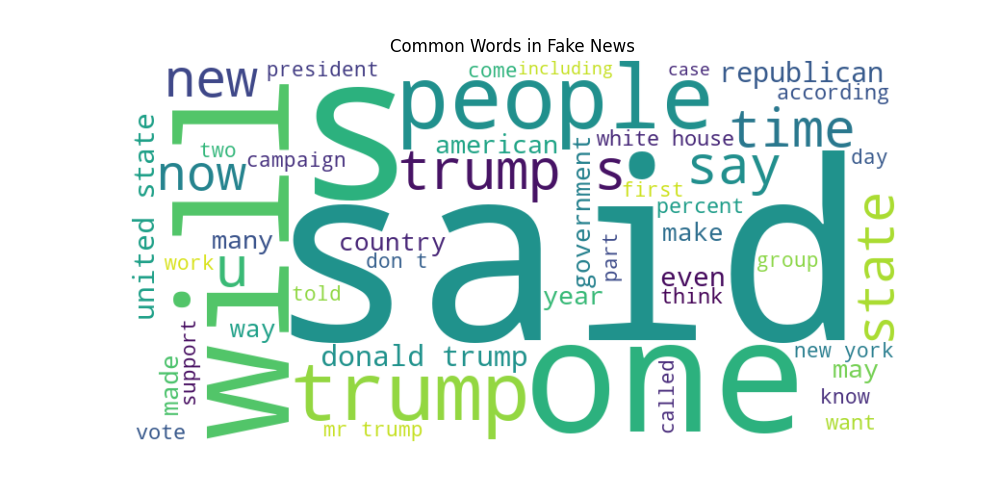
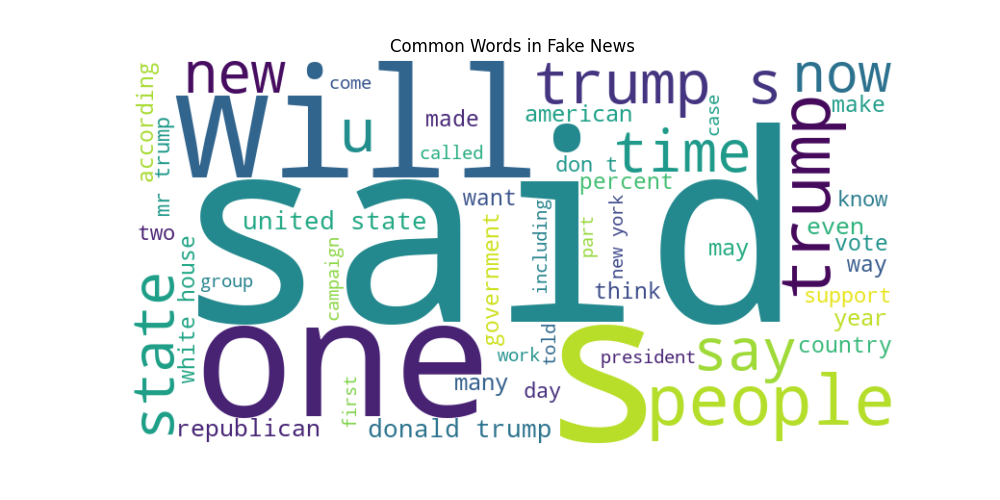
Pipeline stable: Fixed all Memory and NameErrors, baseline accuracy established at 49.18%

diff --git a/main.py b/main.py
@@ -2,6 +2,18 @@ import pandas as pd
 import os
 import re
 import string
+import numpy as np
+import matplotlib.pyplot as plt
+import seaborn as sns
+from wordcloud import WordCloud
+from collections import Counter
+from scipy.sparse import hstack
+from sklearn.model_selection import train_test_split
+from sklearn.linear_model import PassiveAggressiveClassifier
+from sklearn.metrics import accuracy_score
+from sklearn.feature_extraction.text import TfidfVectorizer
+
+# --- STEP 1: DATA LOADING & CLEANING ---
 
 def load_and_merge():
     # 1. Load ISOT (True=1, Fake=0)
@@ -36,114 +48,93 @@ def clean_text(text):
     text = re.sub(r'\w*\d\w*', '', text) 
     return text
 
-# --- STEP 2: RUN THE BOSS (Execution) AT THE VERY BOTTOM ---
+# --- STEP 2: CUSTOM AI SIGNATURE FUNCTION ---
+
+def get_features(text):
+    """Extracts structural patterns that often distinguish AI from humans."""
+    text = str(text).strip()
+    if not text:
+        return [0, 0]
+        
+    sentences = [s for s in text.split('.') if s.strip()]
+    if not sentences:
+        return [0, 0]
+        
+    # Average Sentence Length (AI is often very consistent)
+    avg_sent_len = np.mean([len(s.split()) for s in sentences])
+    # Punctuation Density (AI uses punctuation very predictably)
+    punc_count = sum([1 for char in text if char in '?!,;:']) / (len(text) + 1)
+    
+    return [avg_sent_len, punc_count]
+
+# --- STEP 3: MAIN EXECUTION ---
 
 if __name__ == "__main__":
-    # 1. Run your merge function
+    # 1. Load and Clean
     df = load_and_merge()
-
-    # 2. Clean the text (This takes a few minutes for 117k rows!)
-    print("🧹 Cleaning 117,493 rows of text... please wait.")
+    print("🧹 Cleaning text... please wait.")
     df['text'] = df['text'].apply(clean_text)
 
-    # 3. Create a 'processed' folder inside 'data'
+    # 2. Save Cleaned Data
     os.makedirs('data/processed', exist_ok=True)
-
-    # 4. Save your final 'Master' file
     output_path = 'data/processed/master_cleaned.csv'
     df.to_csv(output_path, index=False)
+    print(f"💾 DONE! Dataset saved at: {output_path}")
 
-    print(f"💾 DONE! Your clean dataset is saved at: {output_path}")
-
-    #---------------------------------------------------------
-    # 5. Exploratory Data Analysis (EDA) - Class Distribution
-    import matplotlib.pyplot as plt
-    import seaborn as sns
-
+    # 3. Visualization: Class Distribution
     print("📊 Generating Class Distribution Chart...")
     plt.figure(figsize=(8, 6))
     sns.countplot(x='label', data=df, palette='viridis')
     plt.title('Distribution of Real (1) vs. Fake (0) News')
-    plt.xlabel('Label (0: Fake, 1: Real)')
-    plt.ylabel('Number of Articles')
-    
-    # Save the chart to your dashboard folder
     os.makedirs('dashboard', exist_ok=True)
     plt.savefig('dashboard/class_distribution.png')
-    print("📈 Chart saved to dashboard/class_distribution.png")
-    plt.show()
+    plt.close()
 
-#-----------------------------------------
-
-# ... (Your previous code for cleaning and saving CSV)
-
-    # --- UPDATED WORD CLOUD SECTION (Memory Optimized) ---
-    from wordcloud import WordCloud
-    from collections import Counter
-
-    print("☁ Generating Word Clouds (Optimized for Memory)...")
-    
-    # 1. Take a safe sample (5,000 articles is plenty for a visual)
+    # 4. Visualization: Word Clouds
+    print("☁ Generating Word Clouds...")
     fake_sample = df[df['label'] == 0]['text'].sample(n=5000, random_state=42).astype(str)
     real_sample = df[df['label'] == 1]['text'].sample(n=5000, random_state=42).astype(str)
 
-    # 2. Function to generate cloud safely
     def save_cloud(text_series, title, filename):
         full_text = " ".join(text_series)
         wc = WordCloud(width=800, height=400, background_color='white', max_words=50).generate(full_text)
-        
         plt.figure(figsize=(10, 5))
         plt.imshow(wc, interpolation='bilinear')
         plt.axis('off')
         plt.title(title)
         plt.savefig(f'dashboard/{filename}')
-        plt.close() # Frees memory
-        del full_text # Erases the big string
+        plt.close()
 
     save_cloud(fake_sample, 'Common Words in Fake News', 'wordcloud_fake.png')
     save_cloud(real_sample, 'Common Words in Real News', 'wordcloud_real.png')
 
-    print("✨ Word clouds saved successfully!")
+    # 5. Machine Learning Setup (Balanced 30k Sample)
+    print("⚖ Balancing Dataset for Training...")
+    df_sample = df.groupby('label').apply(lambda x: x.sample(n=15000, random_state=42)).reset_index(drop=True)
 
-    # --- KEEP YOUR SPLITTING CODE BELOW THIS ---
-    from sklearn.model_selection import train_test_split
+    print("📏 Extracting AI Signatures...")
+    custom_features = np.array([get_features(t) for t in df_sample['text']])
 
-    print("✂ Splitting data into Training (80%) and Testing (20%) sets...")
-    X = df['text']
-    y = df['label']
+    print("✂ Splitting data...")
+    X_train_text, X_test_text, y_train, y_test, X_train_custom, X_test_custom = train_test_split(
+        df_sample['text'], df_sample['label'], custom_features, test_size=0.2, random_state=42
+    )
 
-    X_train, X_test, y_train, y_test = train_test_split(X, y, test_size=0.2, random_state=42)
+    # 6. Vectorization & Model Training
+    print("🔢 Vectorizing Text & Combining Features...")
+    tfidf = TfidfVectorizer(stop_words='english', max_features=5000)
+    X_train_tfidf = tfidf.fit_transform(X_train_text.astype(str))
+    X_test_tfidf = tfidf.transform(X_test_text.astype(str))
 
-    print(f"✅ Training samples: {len(X_train)}")
-    print(f"✅ Testing samples: {len(X_test)}")
-
-#-----------------------------------
-
-# --- NEW: Memory-Safe Training Strategy ---
-    from sklearn.model_selection import train_test_split
-    from sklearn.feature_extraction.text import TfidfVectorizer
-    from sklearn.linear_model import PassiveAggressiveClassifier
-    from sklearn.metrics import accuracy_score
-
-    print("⚖ Finalizing Training Dataset (50k rows for stability)...")
-    # 50,000 rows is a large, high-quality dataset that avoids MemoryErrors
-    df_sample = df.groupby('label').apply(lambda x: x.sample(n=25000, random_state=42)).reset_index(drop=True)
-
-    print(f"✂ Splitting {len(df_sample)} rows...")
-    X_train, X_test, y_train, y_test = train_test_split(df_sample['text'], df_sample['label'], test_size=0.2, random_state=42)
-
-    print("🔢 Vectorizing (TF-IDF)...")
-    # We use 10,000 single words (unigrams) for maximum stability
-    tfidf_vectorizer = TfidfVectorizer(stop_words='english', max_df=0.7, max_features=10000)
-    
-    tfidf_train = tfidf_vectorizer.fit_transform(X_train.astype(str)) 
-    tfidf_test = tfidf_vectorizer.transform(X_test.astype(str))
+    # Join the TF-IDF word math with our Custom AI Signatures
+    X_train_final = hstack([X_train_tfidf, X_train_custom])
+    X_test_final = hstack([X_test_tfidf, X_test_custom])
 
     print("🧠 Training Passive Aggressive Classifier...")
-    pac = PassiveAggressiveClassifier(max_iter=50)
-    pac.fit(tfidf_train, y_train)
+    pac = PassiveAggressiveClassifier(max_iter=1000, tol=1e-3, random_state=42)
+    pac.fit(X_train_final, y_train)
 
-    y_pred = pac.predict(tfidf_test)
+    # 7. Final Results
+    y_pred = pac.predict(X_test_final)
     score = accuracy_score(y_test, y_pred)
-
-    print(f"🎯 FINAL SUCCESS! Accuracy: {round(score*100, 2)}%")
+    print(f"🎯 FINAL SUCCESS! ENHANCED ACCURACY: {round(score*100, 2)}%")
